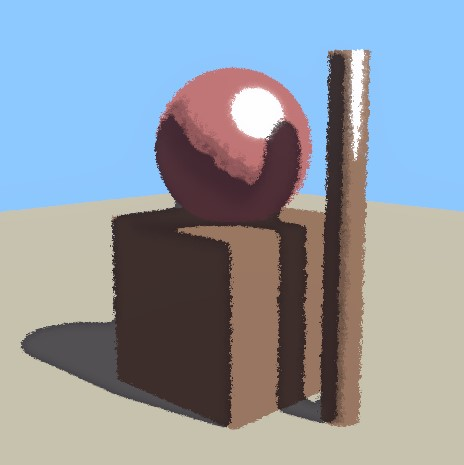
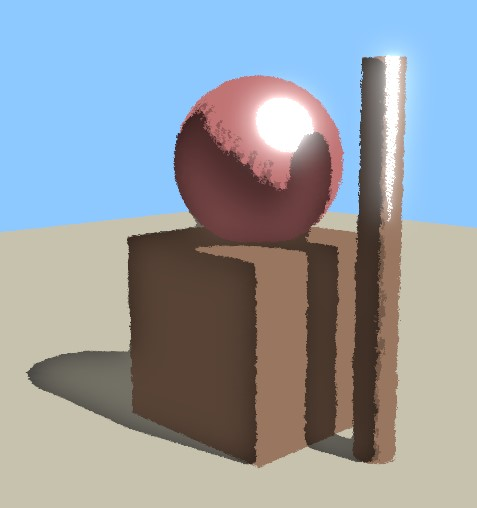
Added proper blur pass

diff --git a/Assets/AoSRenderPipeline/Runtime/Passes/AoSBlurPass.cs b/Assets/AoSRenderPipeline/Runtime/Passes/AoSBlurPass.cs
@@ -10,26 +10,25 @@ namespace AoS.RenderPipeline
 
 		private static int TempRT0Id = Shader.PropertyToID("_TempRT0");
 		private static int TempRT1Id = Shader.PropertyToID("_TempRT1");
-		private static int SourceId = Shader.PropertyToID("_Source0");
+		private static int Source0Id = Shader.PropertyToID("_Source0");
 
-		private static int BlurRadiusId = Shader.PropertyToID("_BlurRadius");
-
-		private TextureHandle m_colorAttachment, m_blurBuffer;
+		private TextureHandle m_colorAttachment, m_heavyBlurBuffer, m_softBlurBuffer;
 		private Vector2Int m_bufferSize;
 		private bool m_useHDR;
 		private AoSRenderPipelineSettings m_settings;
 
 		private void Render(RenderGraphContext context)
 		{
-			context.cmd.GetTemporaryRT(TempRT0Id, Mathf.CeilToInt(m_bufferSize.x / m_settings.downsampleAmount), Mathf.CeilToInt(m_bufferSize.y / m_settings.downsampleAmount), 0, FilterMode.Point, m_useHDR ? RenderTextureFormat.DefaultHDR : RenderTextureFormat.Default);
-			context.cmd.GetTemporaryRT(TempRT1Id, Mathf.CeilToInt(m_bufferSize.x / m_settings.downsampleAmount), Mathf.CeilToInt(m_bufferSize.y / m_settings.downsampleAmount), 0, FilterMode.Point, m_useHDR ? RenderTextureFormat.DefaultHDR : RenderTextureFormat.Default);
+			context.cmd.GetTemporaryRT(TempRT0Id, Mathf.CeilToInt(m_bufferSize.x / m_settings.softBlurDownsample), Mathf.CeilToInt(m_bufferSize.y / m_settings.softBlurDownsample), 0, FilterMode.Bilinear, m_useHDR ? RenderTextureFormat.DefaultHDR : RenderTextureFormat.Default);
+			context.cmd.GetTemporaryRT(TempRT1Id, Mathf.CeilToInt(m_bufferSize.x / m_settings.heavyBlurDownsample), Mathf.CeilToInt(m_bufferSize.y / m_settings.heavyBlurDownsample), 0, FilterMode.Bilinear, m_useHDR ? RenderTextureFormat.DefaultHDR : RenderTextureFormat.Default);
 
-			context.cmd.SetGlobalFloat(BlurRadiusId, m_settings.blurRadius);
-
-			Draw(context.cmd, m_colorAttachment, TempRT0Id, AoSRenderPipeline.Pass.BlurHorizontal);
-			Draw(context.cmd, TempRT0Id,         TempRT1Id, AoSRenderPipeline.Pass.BlurVertical);
-
-			Draw(context.cmd, TempRT1Id, m_blurBuffer, AoSRenderPipeline.Pass.Copy);
+			Draw(context.cmd, m_colorAttachment, m_softBlurBuffer, AoSRenderPipeline.Pass.Downsample);
+			Draw(context.cmd, m_softBlurBuffer, TempRT0Id, AoSRenderPipeline.Pass.BlurHorizontal);
+			Draw(context.cmd, TempRT0Id, m_softBlurBuffer, AoSRenderPipeline.Pass.BlurVertical);
+			
+			Draw(context.cmd, m_softBlurBuffer, m_heavyBlurBuffer, AoSRenderPipeline.Pass.Downsample);
+			Draw(context.cmd, m_heavyBlurBuffer, TempRT1Id, AoSRenderPipeline.Pass.BlurHorizontal);
+			Draw(context.cmd, TempRT1Id, m_heavyBlurBuffer, AoSRenderPipeline.Pass.BlurVertical);
 
 			context.cmd.ReleaseTemporaryRT(TempRT0Id);
 			context.cmd.ReleaseTemporaryRT(TempRT1Id);
@@ -40,7 +39,7 @@ namespace AoS.RenderPipeline
 
 		private void Draw(CommandBuffer buffer, RenderTargetIdentifier from, RenderTargetIdentifier to, AoSRenderPipeline.Pass pass)
 		{
-			buffer.SetGlobalTexture(SourceId, from);
+			buffer.SetGlobalTexture(Source0Id, from);
 			buffer.SetRenderTarget(to, RenderBufferLoadAction.DontCare, RenderBufferStoreAction.Store);
 			buffer.DrawProcedural(Matrix4x4.identity, m_settings.Material, (int)pass, MeshTopology.Triangles, 3);
 		}
@@ -52,7 +51,8 @@ namespace AoS.RenderPipeline
 			pass.m_useHDR = useHDR;
 			pass.m_settings = settings;
 			pass.m_colorAttachment = builder.ReadTexture(textures.colorAttachment);
-			pass.m_blurBuffer = builder.WriteTexture(textures.blurBuffer);
+			pass.m_heavyBlurBuffer = builder.ReadWriteTexture(textures.heavyBlurBuffer);
+			pass.m_softBlurBuffer = builder.ReadWriteTexture(textures.softBlurBuffer);
 			builder.DependsOn(listHandle);
 			builder.SetRenderFunc<BlurPass>((pass, context) => pass.Render(context));
 		}

diff --git a/Assets/AoSRenderPipeline/Runtime/Passes/AoSFinalShadowPass.cs b/Assets/AoSRenderPipeline/Runtime/Passes/AoSFinalShadowPass.cs
@@ -8,29 +8,28 @@ namespace AoS.RenderPipeline
 	{
 		private static readonly ProfilingSampler Sampler = new("Final Shadow Pass");
 
-		private static int TempRTId = Shader.PropertyToID("_TempRT");
-		private static int Source0Id = Shader.PropertyToID("_Source0");
-		private static int Source1Id = Shader.PropertyToID("_Source1");
+		private static int ShadowStepCountId = Shader.PropertyToID("_ShadowStepCount");
 		private static int ShadowThresholdId = Shader.PropertyToID("_ShadowThreshold");
 		private static int ShadowThresholdSoftnessId = Shader.PropertyToID("_ShadowThresholdSoftness");
+		private static int ShadowInnerGlowId = Shader.PropertyToID("_ShadowInnerGlow");
 
-		private TextureHandle m_colorAttachment, m_blurBuffer;
-		private Vector2Int m_bufferSize;
-		private bool m_useHDR;
+		private static int Source0Id = Shader.PropertyToID("_Source0");
+		private static int Source1Id = Shader.PropertyToID("_Source1");
+		private static int Source2Id = Shader.PropertyToID("_Source2");
+
+		private TextureHandle m_colorAttachment, m_finalShadowBuffer, m_heavyBlurBuffer, m_softBlurBuffer;
 		private AoSRenderPipelineSettings m_settings;
 
 		void Render(RenderGraphContext context)
 		{
-			context.cmd.GetTemporaryRT(TempRTId, m_bufferSize.x, m_bufferSize.y, 0, FilterMode.Point, m_useHDR ? RenderTextureFormat.DefaultHDR : RenderTextureFormat.Default);
-
-			Draw(context.cmd, m_colorAttachment, TempRTId, AoSRenderPipeline.Pass.Copy);
-
+			context.cmd.SetGlobalInt(ShadowStepCountId, m_settings.shadowStepCount);
 			context.cmd.SetGlobalFloat(ShadowThresholdId, m_settings.shadowThreshold);
 			context.cmd.SetGlobalFloat(ShadowThresholdSoftnessId, m_settings.shadowThresholdSoftness);
-			context.cmd.SetGlobalTexture(Source1Id, m_blurBuffer);
-			Draw(context.cmd, TempRTId, m_colorAttachment, AoSRenderPipeline.Pass.FinalShadowPass);
+			context.cmd.SetGlobalFloat(ShadowInnerGlowId, m_settings.shadowInnerGlow);
 
-			context.cmd.ReleaseTemporaryRT(TempRTId);
+			context.cmd.SetGlobalTexture(Source1Id, m_softBlurBuffer);
+			context.cmd.SetGlobalTexture(Source2Id, m_heavyBlurBuffer);
+			Draw(context.cmd, m_colorAttachment, m_finalShadowBuffer, AoSRenderPipeline.Pass.FinalShadowPass);
 
 			context.renderContext.ExecuteCommandBuffer(context.cmd);
 			context.cmd.Clear();
@@ -43,14 +42,14 @@ namespace AoS.RenderPipeline
 			buffer.DrawProcedural(Matrix4x4.identity, m_settings.Material, (int)pass, MeshTopology.Triangles, 3);
 		}
 
-		public static void Record(RenderGraph renderGraph, Vector2Int bufferSize, bool useHDR, AoSRenderPipelineSettings settings, in CameraRendererTextures textures)
+		public static void Record(RenderGraph renderGraph, AoSRenderPipelineSettings settings, in CameraRendererTextures textures)
 		{
 			using RenderGraphBuilder builder = renderGraph.AddRenderPass(Sampler.name, out FinalShadowPass pass, Sampler);
-			pass.m_bufferSize = bufferSize;
-			pass.m_useHDR = useHDR;
 			pass.m_settings = settings;
-			pass.m_colorAttachment = builder.ReadWriteTexture(textures.colorAttachment);
-			pass.m_blurBuffer = builder.ReadTexture(textures.blurBuffer);
+			pass.m_colorAttachment = builder.ReadTexture(textures.colorAttachment);
+			pass.m_finalShadowBuffer = builder.WriteTexture(textures.finalShadowBuffer);
+			pass.m_heavyBlurBuffer = builder.ReadTexture(textures.heavyBlurBuffer);
+			pass.m_softBlurBuffer = builder.ReadTexture(textures.softBlurBuffer);
 			builder.SetRenderFunc<FinalShadowPass>((pass, context) => pass.Render(context));
 		}
 	}

diff --git a/Assets/AoSRenderPipeline/Runtime/Passes/AoSColorPass.cs b/Assets/AoSRenderPipeline/Runtime/Passes/AoSColorPass.cs
@@ -12,13 +12,12 @@ namespace AoS.RenderPipeline
 		private static readonly ProfilingSampler Sampler = new("Color Pass (Opaque Geometry)");
 
 		private static readonly ShaderTagId[] ShaderTagIDs = { new("ColorPass") };
-		private static readonly int BlurBufferId = Shader.PropertyToID("_BlurBuffer");
 		private static readonly int FinalShadowBufferId = Shader.PropertyToID("_FinalShadowBuffer");
 		private static readonly int SourceId = Shader.PropertyToID("_Source0");
 
 
 		private RendererListHandle m_list;
-		private TextureHandle m_colorAttachment, m_depthAttachment, m_blurBuffer;
+		private TextureHandle m_finalShadowBuffer, m_colorAttachment, m_depthAttachment;
 		private AoSRenderPipelineSettings m_settings;
 		private Vector2Int m_bufferSize;
 		private bool m_useHDR;
@@ -26,27 +25,16 @@ namespace AoS.RenderPipeline
 
 		void Render(RenderGraphContext context)
 		{
-			context.cmd.GetTemporaryRT(FinalShadowBufferId, m_bufferSize.x, m_bufferSize.y, 0, FilterMode.Point, m_useHDR ? RenderTextureFormat.DefaultHDR : RenderTextureFormat.Default);
-			Draw(context.cmd, m_colorAttachment, FinalShadowBufferId, AoSRenderPipeline.Pass.Copy);
-
 			context.cmd.SetRenderTarget(m_colorAttachment, RenderBufferLoadAction.DontCare, RenderBufferStoreAction.Store, m_depthAttachment, RenderBufferLoadAction.DontCare, RenderBufferStoreAction.Store);
-			context.cmd.ClearRenderTarget(true, true, m_camera.backgroundColor.linear);
+			context.cmd.ClearRenderTarget(false, true, m_camera.backgroundColor.linear);
 
-			context.cmd.SetGlobalTexture(BlurBufferId, m_blurBuffer);
-
+			context.cmd.SetGlobalTexture(FinalShadowBufferId, m_finalShadowBuffer);
 			context.cmd.DrawRendererList(m_list);
 
 			context.cmd.ReleaseTemporaryRT(FinalShadowBufferId);
 
 			context.renderContext.ExecuteCommandBuffer(context.cmd);
 			context.cmd.Clear();
-		}
-
-		private void Draw(CommandBuffer buffer, RenderTargetIdentifier from, RenderTargetIdentifier to, AoSRenderPipeline.Pass pass)
-		{
-			buffer.SetGlobalTexture(SourceId, from);
-			buffer.SetRenderTarget(to, RenderBufferLoadAction.DontCare, RenderBufferStoreAction.Store);
-			buffer.DrawProcedural(Matrix4x4.identity, m_settings.Material, (int)pass, MeshTopology.Triangles, 3);
 		}
 
 		public static void Record(RenderGraph renderGraph, Camera camera, CullingResults cullingResults, Vector2Int bufferSize, bool useHDR, AoSRenderPipelineSettings settings, in CameraRendererTextures textures)
@@ -64,9 +52,9 @@ namespace AoS.RenderPipeline
 			pass.m_camera = camera;
 			pass.m_bufferSize = bufferSize;
 			pass.m_useHDR = useHDR;
+			pass.m_finalShadowBuffer = builder.ReadTexture(textures.finalShadowBuffer);
 			pass.m_colorAttachment = builder.ReadWriteTexture(textures.colorAttachment);
 			pass.m_depthAttachment = builder.ReadWriteTexture(textures.depthAttachment);
-			pass.m_blurBuffer = builder.ReadTexture(textures.blurBuffer);
 			pass.m_settings = settings;
 
 			builder.SetRenderFunc<ColorPass>((pass, context) => pass.Render(context));

diff --git a/Assets/AoSRenderPipeline/Runtime/Passes/AoSSetupPass.cs b/Assets/AoSRenderPipeline/Runtime/Passes/AoSSetupPass.cs
@@ -22,13 +22,13 @@ namespace AoS.RenderPipeline
 			cmd.Clear();
 		}
 
-		public static CameraRendererTextures Record(RenderGraph renderGraph, bool useHDR, Vector2Int attachmentSize, Camera camera)
+		public static CameraRendererTextures Record(RenderGraph renderGraph, bool useHDR, Vector2Int attachmentSize, Camera camera, AoSRenderPipelineSettings settings)
 		{
 			using RenderGraphBuilder builder = renderGraph.AddRenderPass(Sampler.name, out SetupPass pass, Sampler);
 			pass.m_attachmentSize = attachmentSize;
 			pass.m_camera = camera;
 
-			TextureHandle colorAttachment, depthAttachment, warpColor, warpDepth, blurBuffer;
+			TextureHandle colorAttachment, depthAttachment, warpColor, warpDepth, heavyBlurBuffer, softBlurBuffer, finalShadowBuffer;
 			TextureDesc desc;
 
 			desc = new TextureDesc(attachmentSize.x, attachmentSize.y)
@@ -53,17 +53,31 @@ namespace AoS.RenderPipeline
 			desc.name = "Warp Pass Depth";
 			warpDepth = renderGraph.CreateTexture(desc);
 
+			desc = new TextureDesc(Mathf.CeilToInt(attachmentSize.x / settings.heavyBlurDownsample), Mathf.CeilToInt(attachmentSize.y / settings.heavyBlurDownsample))
+			{
+				colorFormat = SystemInfo.GetGraphicsFormat(useHDR ? DefaultFormat.HDR : DefaultFormat.LDR),
+				name = "Heavy Blur Buffer"
+			};
+			heavyBlurBuffer = renderGraph.CreateTexture(desc);
+
+			desc = new TextureDesc(Mathf.CeilToInt(attachmentSize.x / settings.softBlurDownsample), Mathf.CeilToInt(attachmentSize.y / settings.softBlurDownsample))
+			{
+				colorFormat = SystemInfo.GetGraphicsFormat(useHDR ? DefaultFormat.HDR : DefaultFormat.LDR),
+				name = "Soft Blur Buffer"
+			};
+			softBlurBuffer = renderGraph.CreateTexture(desc);
+
 			desc = new TextureDesc(attachmentSize.x, attachmentSize.y)
 			{
 				colorFormat = SystemInfo.GetGraphicsFormat(useHDR ? DefaultFormat.HDR : DefaultFormat.LDR),
-				name = "Blur Buffer"
+				name = "Final Shadow Buffer"
 			};
-			blurBuffer = renderGraph.CreateTexture(desc);
+			finalShadowBuffer = renderGraph.CreateTexture(desc);
 
 			builder.AllowPassCulling(false);
 			builder.SetRenderFunc<SetupPass>((pass, context) => pass.Render(context));
 
-			return new CameraRendererTextures(colorAttachment, depthAttachment, warpColor, warpDepth, blurBuffer);
+			return new CameraRendererTextures(colorAttachment, depthAttachment, warpColor, warpDepth, heavyBlurBuffer, softBlurBuffer, finalShadowBuffer);
 		}
 	}
 }

diff --git a/Assets/AoSRenderPipeline/Runtime/Passes/AoSFinalColorPass.cs b/Assets/AoSRenderPipeline/Runtime/Passes/AoSFinalColorPass.cs
@@ -8,17 +8,21 @@ namespace AoS.RenderPipeline
 	{
 		private static readonly ProfilingSampler m_sampler = new("Final Color Pass");
 
+		private static int WarpBloomId = Shader.PropertyToID("_WarpBloom");
+
 		private static int Source0Id = Shader.PropertyToID("_Source0");
 		private static int Source1Id = Shader.PropertyToID("_Source1");
 		private static int Source2Id = Shader.PropertyToID("_Source2");
 
-		private TextureHandle m_colorAttachment, m_warpBuffer, m_blurBuffer;
+		private TextureHandle m_colorAttachment, m_warpBuffer, m_finalShadowBuffer;
 		private AoSRenderPipelineSettings m_settings;
 
 		void Render(RenderGraphContext context)
 		{
+			context.cmd.SetGlobalFloat(WarpBloomId, m_settings.warpBloom ? 1.0f : 0.0f);
+
 			context.cmd.SetGlobalTexture(Source1Id, m_warpBuffer);
-			context.cmd.SetGlobalTexture(Source2Id, m_blurBuffer);
+			context.cmd.SetGlobalTexture(Source2Id, m_finalShadowBuffer);
 			Draw(context.cmd, m_colorAttachment, BuiltinRenderTextureType.CameraTarget, AoSRenderPipeline.Pass.FinalColorPass);
 
 			context.renderContext.ExecuteCommandBuffer(context.cmd);
@@ -38,7 +42,7 @@ namespace AoS.RenderPipeline
 			pass.m_settings = settings;
 			pass.m_colorAttachment = builder.ReadTexture(textures.colorAttachment);
 			pass.m_warpBuffer = builder.ReadTexture(textures.warpColor);
-			pass.m_blurBuffer = builder.ReadTexture(textures.blurBuffer);
+			pass.m_finalShadowBuffer = builder.ReadTexture(textures.finalShadowBuffer);
 			builder.SetRenderFunc<FinalColorPass>((pass, context) => pass.Render(context));
 		}
 	}

diff --git a/Assets/AoSRenderPipeline/Runtime/AoSCameraRendererTextures.cs b/Assets/AoSRenderPipeline/Runtime/AoSCameraRendererTextures.cs
@@ -4,15 +4,18 @@ namespace AoS.RenderPipeline
 {
 	public readonly ref struct CameraRendererTextures
 	{
-		public readonly TextureHandle colorAttachment, depthAttachment, warpColor, warpDepth, blurBuffer;
+		public readonly TextureHandle colorAttachment, depthAttachment, warpColor, warpDepth, heavyBlurBuffer, softBlurBuffer, finalShadowBuffer;
 
-		public CameraRendererTextures(TextureHandle colorAttachment, TextureHandle depthAttachment, TextureHandle warpColor, TextureHandle warpDepth, TextureHandle blurBuffer)
+		public CameraRendererTextures(TextureHandle colorAttachment, TextureHandle depthAttachment, TextureHandle warpColor, TextureHandle warpDepth,
+			TextureHandle heavyBlurBuffer, TextureHandle softBlurBuffer, TextureHandle finalShadowBuffer)
 		{
 			this.colorAttachment = colorAttachment;
 			this.depthAttachment = depthAttachment;
 			this.warpColor = warpColor;
 			this.warpDepth = warpDepth;
-			this.blurBuffer = blurBuffer;
+			this.heavyBlurBuffer = heavyBlurBuffer;
+			this.softBlurBuffer = softBlurBuffer;
+			this.finalShadowBuffer = finalShadowBuffer;
 		}
 	}
 }

diff --git a/Assets/AoSRenderPipeline/Runtime/AoSRenderPipelineSettings.cs b/Assets/AoSRenderPipeline/Runtime/AoSRenderPipelineSettings.cs
@@ -19,12 +19,17 @@ namespace AoS.RenderPipeline
         public float warpWidth = 1.0f;
 
         [Header("Blur pass settings")]
-        public float blurRadius = 1.0f;
-        public float downsampleAmount = 1.0f;
+        [Range(1.0f, 16.0f)] public float softBlurDownsample = 4;
+        [Range(2.0f, 16.0f)] public float heavyBlurDownsample = 8;
 
         [Header("Final shadow pass settings")]
-        public float shadowThreshold = 1.0f;
-        public float shadowThresholdSoftness = 1.0f;
+        [Min(0)] public int shadowStepCount = 3;
+        [Range(0.0f, 1.0f)] public float shadowThreshold = 0.5f;
+        [Range(0.0f, 1.0f)] public float shadowThresholdSoftness = 0.3f;
+        [Range(0.0f, 1.0f)] public float shadowInnerGlow = 0.3f;
+
+        [Header("Final color pass settings")]
+        public bool warpBloom = false;
 
         [NonSerialized] private Material m_material;
         public Material Material

diff --git a/Assets/AoSRenderPipeline/Runtime/AoSCameraRenderer.cs b/Assets/AoSRenderPipeline/Runtime/AoSCameraRenderer.cs
@@ -41,7 +41,7 @@ namespace AoS.RenderPipeline
 				ShadowTextures shadowTextures = DepthPass.Record(renderGraph, cullingResults, camera, settings.shadows);
 
 				// Setup
-				CameraRendererTextures textures = SetupPass.Record(renderGraph, useHDR, bufferSize, camera);
+				CameraRendererTextures textures = SetupPass.Record(renderGraph, useHDR, bufferSize, camera, settings);
 
 				// Warp pass
 				WarpPass.Record(renderGraph, camera, cullingResults, settings, textures);
@@ -53,7 +53,7 @@ namespace AoS.RenderPipeline
 				BlurPass.Record(renderGraph, bufferSize, useHDR, settings, textures, listHandle);
 
 				// Final shadow pass
-				FinalShadowPass.Record(renderGraph, bufferSize, useHDR, settings, textures);
+				FinalShadowPass.Record(renderGraph, settings, textures);
 
 				// Color pass
 				ColorPass.Record(renderGraph, camera, cullingResults, bufferSize, useHDR, settings, textures);

diff --git a/Assets/AoSRenderPipeline/Runtime/AoSRenderPipeline.cs b/Assets/AoSRenderPipeline/Runtime/AoSRenderPipeline.cs
@@ -1,5 +1,4 @@
 using System.Collections.Generic;
-using UnityEditor.Experimental.GraphView;
 using UnityEngine;
 using UnityEngine.Experimental.Rendering.RenderGraphModule;
 using UnityEngine.Rendering;
@@ -8,7 +7,7 @@ namespace AoS.RenderPipeline
 {
 	public partial class AoSRenderPipeline : UnityEngine.Rendering.RenderPipeline
 	{
-		public enum Pass { Copy, BlurHorizontal, BlurVertical, FinalShadowPass, FinalColorPass }
+		public enum Pass { Copy, Downsample, BlurHorizontal, BlurVertical, FinalShadowPass, FinalColorPass }
 
 		private readonly CameraRenderer m_renderer;
 		private readonly AoSRenderPipelineSettings m_settings;

diff --git a/README.md b/README.md
@@ -24,7 +24,7 @@ Using [Jasper Flick/Catlike Coding](https://catlikecoding.com/)'s [Custom SRP Pr
 - 5. The Rendering Pipeline
     - [x] Warp Pass
     - [X] Shadow Pass
-    - [ ] \(WIP) Blur Pass
+    - [X] Blur Pass
     - [X] 5.1. Shadow shapes, inner glow, and indication
     - [X] 5.2. Color control
 
